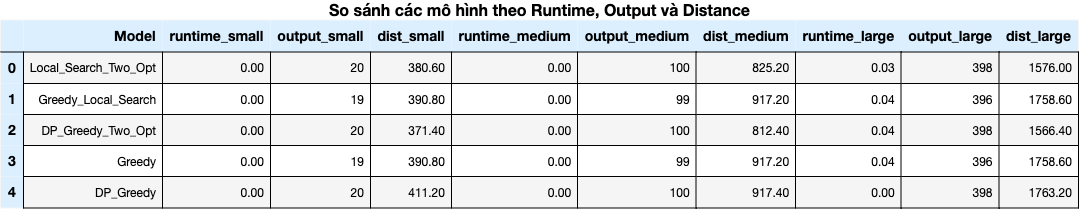
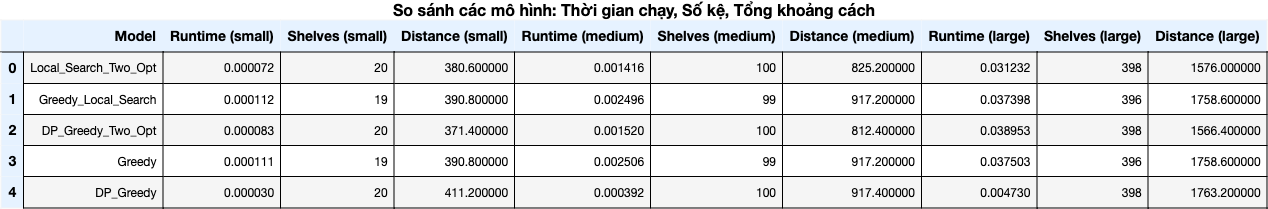
"LOL"

diff --git a/utils/log_csv.py b/utils/log_csv.py
@@ -6,7 +6,11 @@ import dataframe_image as dfi
 
 def generate_summary(models, base_dir="test", output_csv="result/table/summary.csv", output_png="result/table/summary.png"):
     SIZES = ["small", "medium", "large"]
-    METRICS = ["runtime", "output", "dist"]
+    METRICS = {
+        "runtime": "Runtime",
+        "output": "Shelves",
+        "dist": "Distance"
+    }
 
     if isinstance(models, str):
         models = models.split(",")
@@ -45,11 +49,11 @@ def generate_summary(models, base_dir="test", output_csv="result/table/summary.c
     for model in models:
         row = {"Model": model}
         for size in SIZES:
-            for metric in METRICS:
+            for metric, nice_name in METRICS.items():
                 val = aggregate_metric(model, size, metric)
-                col_name = f"{metric}_{size}"
+                col_name = f"{nice_name} ({size})"
                 if metric in ["runtime", "dist"]:
-                    row[col_name] = f"{val:.2f}"
+                    row[col_name] = f"{val:.6f}"
                 else:
                     row[col_name] = f"{int(round(val))}"
         rows.append(row)
@@ -58,28 +62,21 @@ def generate_summary(models, base_dir="test", output_csv="result/table/summary.c
     df.to_csv(output_csv, index=False)
     print(f"✅ CSV saved to {output_csv}")
 
-    # Format lại DataFrame cho đẹp hơn
+    # Tạo bảng đẹp
     df_styled = (
         df.style
-        .set_caption("So sánh các mô hình theo Runtime, Output và Distance")
-        .set_table_styles(
-            [{
-                'selector': 'caption',
-                'props': [('font-size', '16px'), ('font-weight', 'bold')]
-            },
-            {
-                'selector': 'th',
-                'props': [('background-color', '#dbefff'), ('color', 'black'), ('font-weight', 'bold')]
-            }]
-        )
+        .set_caption("So sánh các mô hình: Thời gian chạy, Số kệ, Tổng khoảng cách")
+        .set_table_styles([
+            {'selector': 'caption', 'props': [('font-size', '16px'), ('font-weight', 'bold')]},
+            {'selector': 'th', 'props': [('background-color', '#e6f2ff'), ('color', 'black'), ('font-weight', 'bold')]}
+        ])
         .set_properties(**{
             'border': '1px solid black',
             'padding': '6px',
-            'font-size': '12px'
+            'font-size': '12px',
         })
     )
 
-    # Lưu bảng dưới dạng PNG đẹp như LaTeX
     dfi.export(df_styled, output_png)
     print(f"✅ Pretty LaTeX-style table saved to {output_png}")
 
